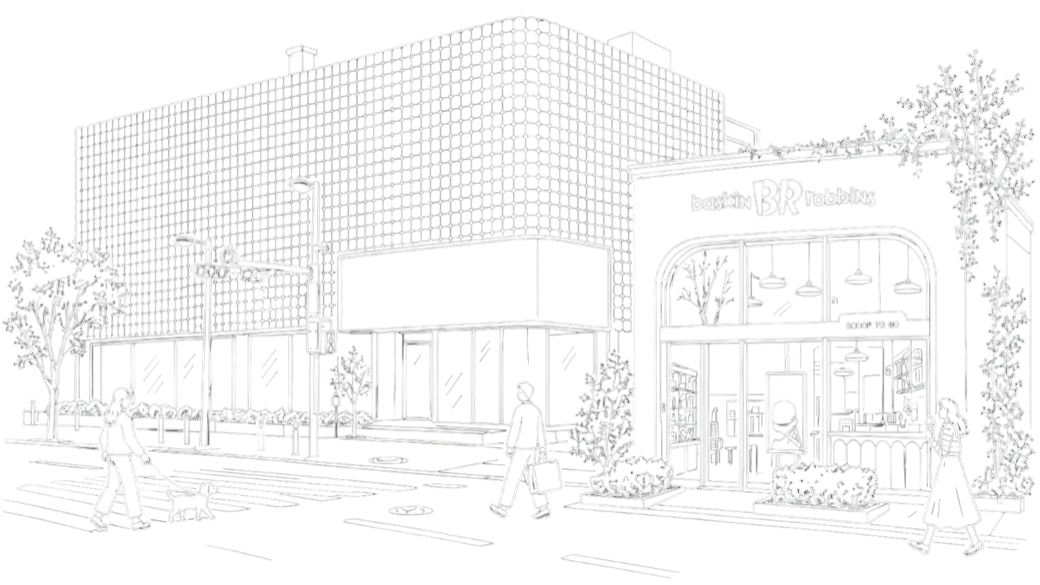
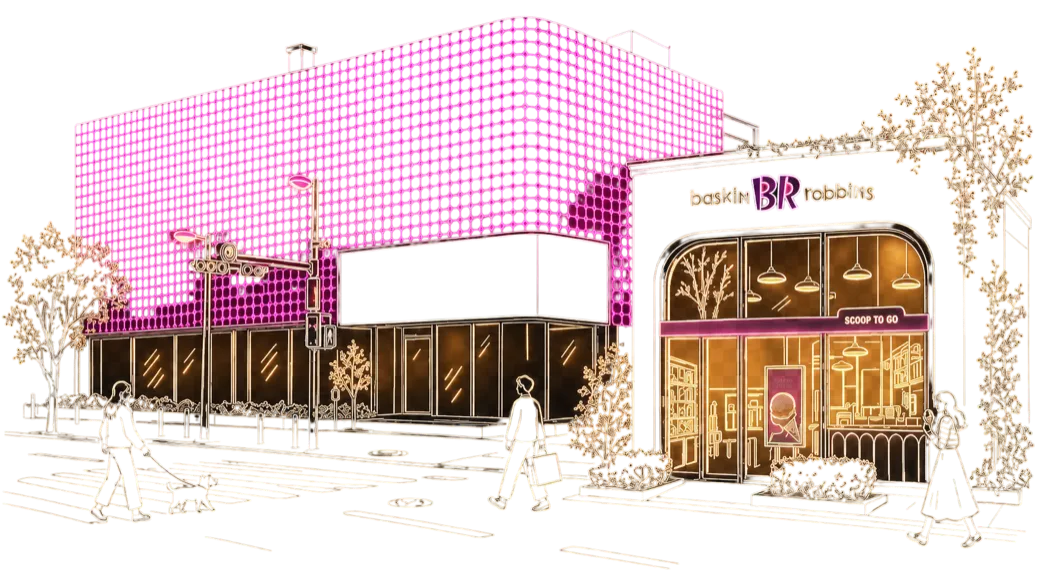
Default to dark, swap hero name by language, refresh dark illustration
- Theme defaults to dark when no saved preference (light still respected).
- Theme toggle button now inverts against the page (preview of target mode).
- Hero name spans use hero.name.primary/secondary i18n keys so EN swaps
  "Yim WooYoung" (large) with "임우영" (small).
- Replace dark hero illustration with the neon-night variant; re-encoded
  WebP at q=80 / 1040px (2006KB → 342KB, -83%).

diff --git a/css/components.css b/css/components.css
@@ -141,6 +141,17 @@
   border-color: var(--color-border-strong);
 }
 
+/* Theme toggle: 페이지와 반전된 색으로 전환 대상(라이트/다크) 미리보기 */
+.theme-toggle {
+  background-color: var(--color-ink);
+  border-color:     var(--color-ink);
+  color:            var(--color-canvas);
+}
+.theme-toggle:hover {
+  background-color: var(--color-body);
+  border-color:     var(--color-body);
+}
+
 /* 라이트 모드: 다음 행선지(다크) 아이콘인 moon 표시. 다크 모드: sun 표시. */
 .theme-toggle__icon--sun  { display: none; }
 .theme-toggle__icon--moon { display: block; }

diff --git a/index.html b/index.html
@@ -97,8 +97,8 @@
               <p class="hero__eyebrow fade-in" data-i18n="hero.eyebrow">Portfolio · 2026</p>
 
               <h1 class="hero__name slide-up">
-                <span>임우영</span>
-                <span class="hero__name-en">Yim WooYoung</span>
+                <span data-i18n="hero.name.primary">임우영</span>
+                <span class="hero__name-en" data-i18n="hero.name.secondary">Yim WooYoung</span>
               </h1>
 
               <p class="hero__title slide-up" data-i18n="hero.title">

diff --git a/js/theme.js b/js/theme.js
@@ -10,9 +10,8 @@ export function initTheme() {
   if (!toggle) return;
 
   const saved = localStorage.getItem(STORAGE_KEY);
-  if (saved === "dark" || saved === "light") {
-    document.documentElement.setAttribute("data-theme", saved);
-  }
+  const initial = saved === "light" ? "light" : "dark";
+  document.documentElement.setAttribute("data-theme", initial);
   updateAria();
 
   toggle.addEventListener("click", () => {
